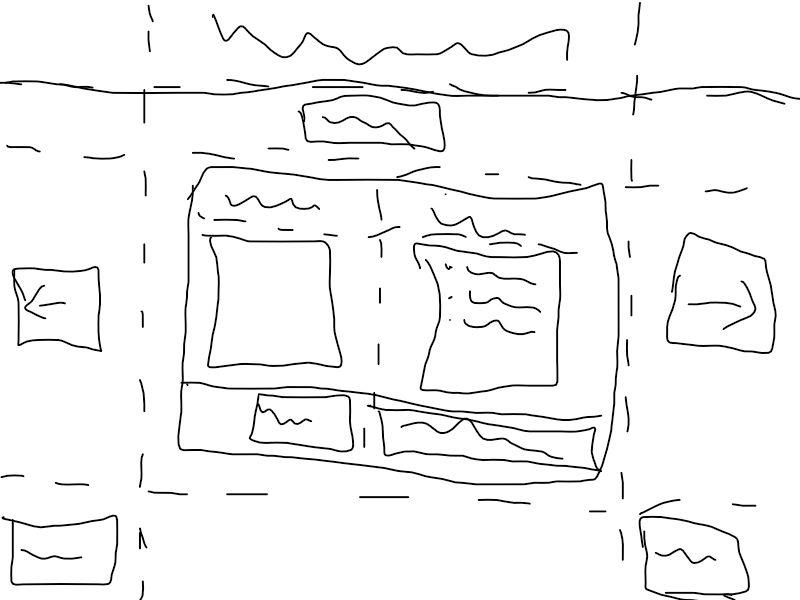
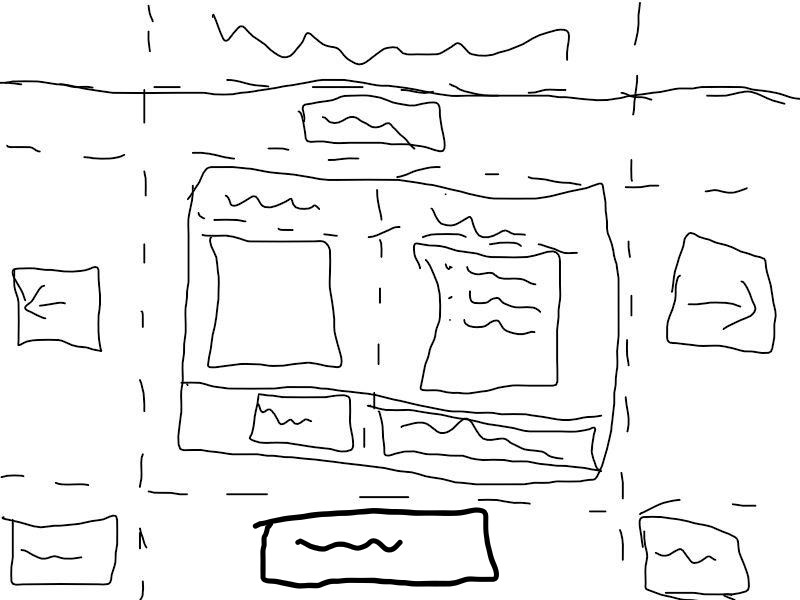
Finish all the HomeFrame buttons functionality and add a "Delete Button" to the bottom of the frame.

Changed region(s): [[0.3125, 0.84, 0.625, 0.99], [0.375, 0.9, 0.5, 0.93]]

diff --git a/window_classes.py b/window_classes.py
@@ -19,15 +19,24 @@ class RecipesWindow(tk.Tk):
         else:
             self.current_recipe = None
 
-        # self.home_frame = HomeFrame(self, self.current_recipe)
-        # self.edit_frame = EditFrame(self, self.current_recipe)
-        # self.current_window = 'Home Frame'
+        self.current_window = HomeFrame(self, self.current_recipe)
+        self.frame_displayed = 'Home Frame'
 
-    def run(self):
-        self.mainloop()
+        self.columnconfigure(0, weight=1)
+        self.rowconfigure(0, weight=1)
+
+        self.current_window.grid(row=0, column=0, sticky="nesw")
 
     def swap_frame(self):
-        pass
+        self.current_window.destroy()
+        if self.frame_displayed == 'Home Frame':
+            self.frame_displayed = 'Edit Frame'
+            self.current_window = EditFrame(self, self.current_recipe)
+            self.current_window.grid(row=0, column=0, sticky="nesw")
+        else:
+            self.frame_displayed = 'Home Frame'
+            self.current_window = HomeFrame(self, self.current_recipe)
+            self.current_window.grid(row=0, column=0, sticky="nesw")
 
 
 class HomeFrame(ttk.Frame):
@@ -40,8 +49,9 @@ class HomeFrame(ttk.Frame):
         self.random_button = ttk.Button(self, text="Random", command=self.random_recipe)
         self.next_button = ttk.Button(self, text="-->", command=self.next_recipe)
         self.back_button = ttk.Button(self, text="<--", command=self.previous_recipe)
-        self.edit_button = ttk.Button(self, text="Edit")
-        self.crate_button = ttk.Button(self, text="Add New Recipe")
+        self.edit_button = ttk.Button(self, text="Edit", command=self.master_win.swap_frame)
+        self.crate_button = ttk.Button(self, text="Add New Recipe", command=self.create_recipe)
+        self.delete_button = ttk.Button(self, text="Delete", command=self.delete_recipe)
 
         ttk.Label(self, text="Your recipes are below", justify="center", anchor="center").grid(row=0,
                                                                                                column=1, sticky="ew")
@@ -51,6 +61,7 @@ class HomeFrame(ttk.Frame):
         self.next_button.grid(row=3, column=2, sticky="e")
         self.edit_button.grid(row=4, column=0, sticky="w")
         self.crate_button.grid(row=4, column=2, sticky="e")
+        self.delete_button.grid(row=4, column=1, sticky="n")
         self.current_recipe_frame.grid(row=3, column=1, sticky="nesw")
 
         self.rowconfigure(0, weight=3)
@@ -63,6 +74,19 @@ class HomeFrame(ttk.Frame):
         self.columnconfigure(1, weight=5)
         self.columnconfigure(2, weight=1)
 
+        if any(recipe_id > recipe.recipe_id for recipe_id in self.master_win.recipes.keys()):
+            self.next_button["state"] = "normal"
+        else:
+            self.next_button["state"] = "disabled"
+
+        if any(recipe_id < recipe.recipe_id for recipe_id in self.master_win.recipes.keys()):
+            self.back_button["state"] = "normal"
+        else:
+            self.back_button["state"] = "disabled"
+
+        if not self.master_win.recipes:
+            self.create_recipe()
+
     def next_recipe(self):
         available_ids = list(filter(next_id_filter(self.current_recipe.recipe_id), self.master_win.recipes.keys()))
         available_ids.sort()
@@ -70,6 +94,16 @@ class HomeFrame(ttk.Frame):
             new_current_recipe = self.master_win.recipes[available_ids[0]]
             self.current_recipe = new_current_recipe
             self.master_win.current_recipe = new_current_recipe
+            self.current_recipe_frame.refresh(new_current_recipe)
+        if any(recipe_id > self.current_recipe.recipe_id for recipe_id in self.master_win.recipes.keys()):
+            self.next_button["state"] = "normal"
+        else:
+            self.next_button["state"] = "disabled"
+
+        if any(recipe_id < self.current_recipe.recipe_id for recipe_id in self.master_win.recipes.keys()):
+            self.back_button["state"] = "normal"
+        else:
+            self.back_button["state"] = "disabled"
 
     def previous_recipe(self):
         available_ids = list(filter(previous_id_filter(self.current_recipe.recipe_id), self.master_win.recipes.keys()))
@@ -78,6 +112,16 @@ class HomeFrame(ttk.Frame):
             new_current_recipe = self.master_win.recipes[available_ids[0]]
             self.current_recipe = new_current_recipe
             self.master_win.current_recipe = new_current_recipe
+            self.current_recipe_frame.refresh(new_current_recipe)
+        if any(recipe_id > self.current_recipe.recipe_id for recipe_id in self.master_win.recipes.keys()):
+            self.next_button["state"] = "normal"
+        else:
+            self.next_button["state"] = "disabled"
+
+        if any(recipe_id < self.current_recipe.recipe_id for recipe_id in self.master_win.recipes.keys()):
+            self.back_button["state"] = "normal"
+        else:
+            self.back_button["state"] = "disabled"
 
     def random_recipe(self):
         available_ids = list(self.master_win.recipes.keys())
@@ -86,6 +130,16 @@ class HomeFrame(ttk.Frame):
             new_current_recipe = self.master_win.recipes[choice(available_ids)]
             self.current_recipe = new_current_recipe
             self.master_win.current_recipe = new_current_recipe
+            self.current_recipe_frame.refresh(new_current_recipe)
+        if any(recipe_id > self.current_recipe.recipe_id for recipe_id in self.master_win.recipes.keys()):
+            self.next_button["state"] = "normal"
+        else:
+            self.next_button["state"] = "disabled"
+
+        if any(recipe_id < self.current_recipe.recipe_id for recipe_id in self.master_win.recipes.keys()):
+            self.back_button["state"] = "normal"
+        else:
+            self.back_button["state"] = "disabled"
 
     def create_recipe(self):
         new_id = add_recipe('Recipe Name Here', ['Edit Ingredients'], 'None', 'Add Description', 'None', 'None')
@@ -93,6 +147,36 @@ class HomeFrame(ttk.Frame):
                                          'None', 'None')
         self.master_win.current_recipe = self.current_recipe
         self.master_win.recipes[new_id] = self.current_recipe
+        self.current_recipe_frame.refresh(self.current_recipe)
+
+        if any(recipe_id > self.current_recipe.recipe_id for recipe_id in self.master_win.recipes.keys()):
+            self.next_button["state"] = "normal"
+        else:
+            self.next_button["state"] = "disabled"
+
+        if any(recipe_id < self.current_recipe.recipe_id for recipe_id in self.master_win.recipes.keys()):
+            self.back_button["state"] = "normal"
+        else:
+            self.back_button["state"] = "disabled"
+
+    def delete_recipe(self):
+        old_id = self.current_recipe.recipe_id
+        if any(recipe_id > self.current_recipe.recipe_id for recipe_id in self.master_win.recipes.keys()):
+            self.next_recipe()
+        elif any(recipe_id < self.current_recipe.recipe_id for recipe_id in self.master_win.recipes.keys()):
+            self.previous_recipe()
+        else:
+            self.create_recipe()
+        del self.master_win.recipes[old_id]
+
+        if any(recipe_id > self.current_recipe.recipe_id for recipe_id in self.master_win.recipes.keys()):
+            self.next_button["state"] = "normal"
+        else:
+            self.next_button["state"] = "disabled"
+        if any(recipe_id < self.current_recipe.recipe_id for recipe_id in self.master_win.recipes.keys()):
+            self.back_button["state"] = "normal"
+        else:
+            self.back_button["state"] = "disabled"
 
 
 class CurrentRecipeFrame(ttk.Frame):
@@ -118,13 +202,19 @@ class CurrentRecipeFrame(ttk.Frame):
             for widget in self.tk_widgets:
                 widget.destroy()
             self.tk_widgets = []
-        self.recipe_info = recipe
+        recp = self.recipe_info
+        if self.new_image is not None:
+            new_recipe = recipe_row(recp.recipe_id, recp.recipe_name, recp.recipe_ingredients, self.new_image,
+                                    recp.recipe_desc, recp.recipe_instructions, recp.instructions_type)
+            self.home_frame.master_win.recipes[recp.recipe_id] = new_recipe
+            self.new_image = None
 
+        self.recipe_info = recipe
         recipe_title = ttk.Label(self, text=recipe.recipe_name, anchor="center", justify="center")
         ingredients_label = ttk.Label(self, text="Ingredients", anchor="center", justify="center")
         line_seperator = ttk.Separator(self)
         ingredients_list_box = tk.Listbox(self, height=len(recipe.recipe_ingredients))
-        open_instruction_button = ttk.Button(self, text="Open: ")
+        open_instruction_button = ttk.Button(self, text="Open: ", command=self.open_instructions)
         instructions_location_label = ttk.Label(self, text=recipe.recipe_instructions, anchor="e", justify="left")
         for ingredient in recipe.recipe_ingredients:
             ingredients_list_box.insert(tk.END, ingredient)
@@ -151,6 +241,9 @@ class CurrentRecipeFrame(ttk.Frame):
                 print(err)
         else:
             self.display_image(False)
+
+    def open_instructions(self):
+        open_instructions(self.recipe_info.recipe_id)
 
     def display_image(self, file_found, recipe_path=None):
         if file_found:
